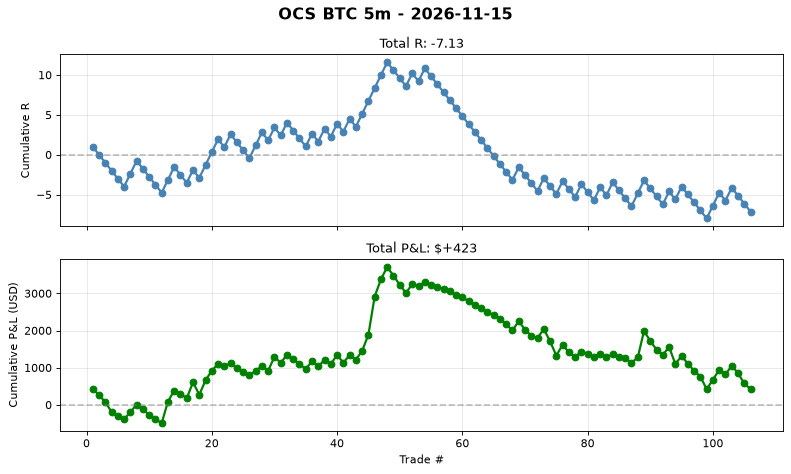
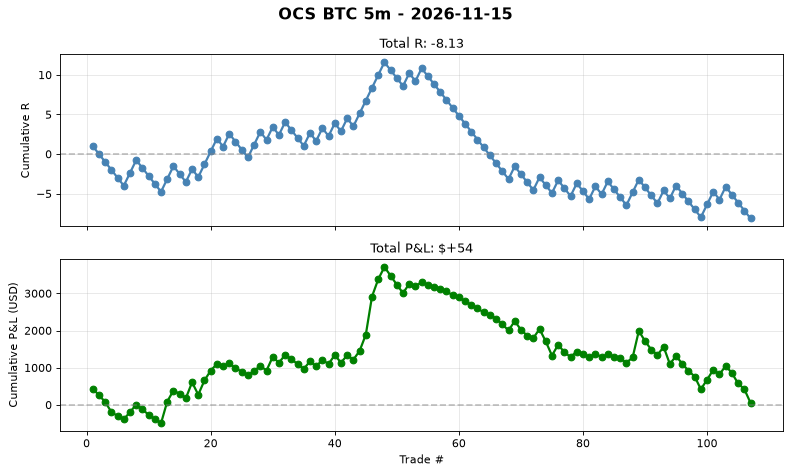
auto(ocs-btc): signal log 2026-11-14T19:57 trades=107

diff --git a/automation/reports/ocs_btc_5m/daily/2026-11-15.md b/automation/reports/ocs_btc_5m/daily/2026-11-15.md
@@ -2,4 +2,4 @@
 
 **No trades today.**
 
-Cumulative stats: 106 trades | WR 35.8% | avg R -0.067
+Cumulative stats: 107 trades | WR 35.5% | avg R -0.076
